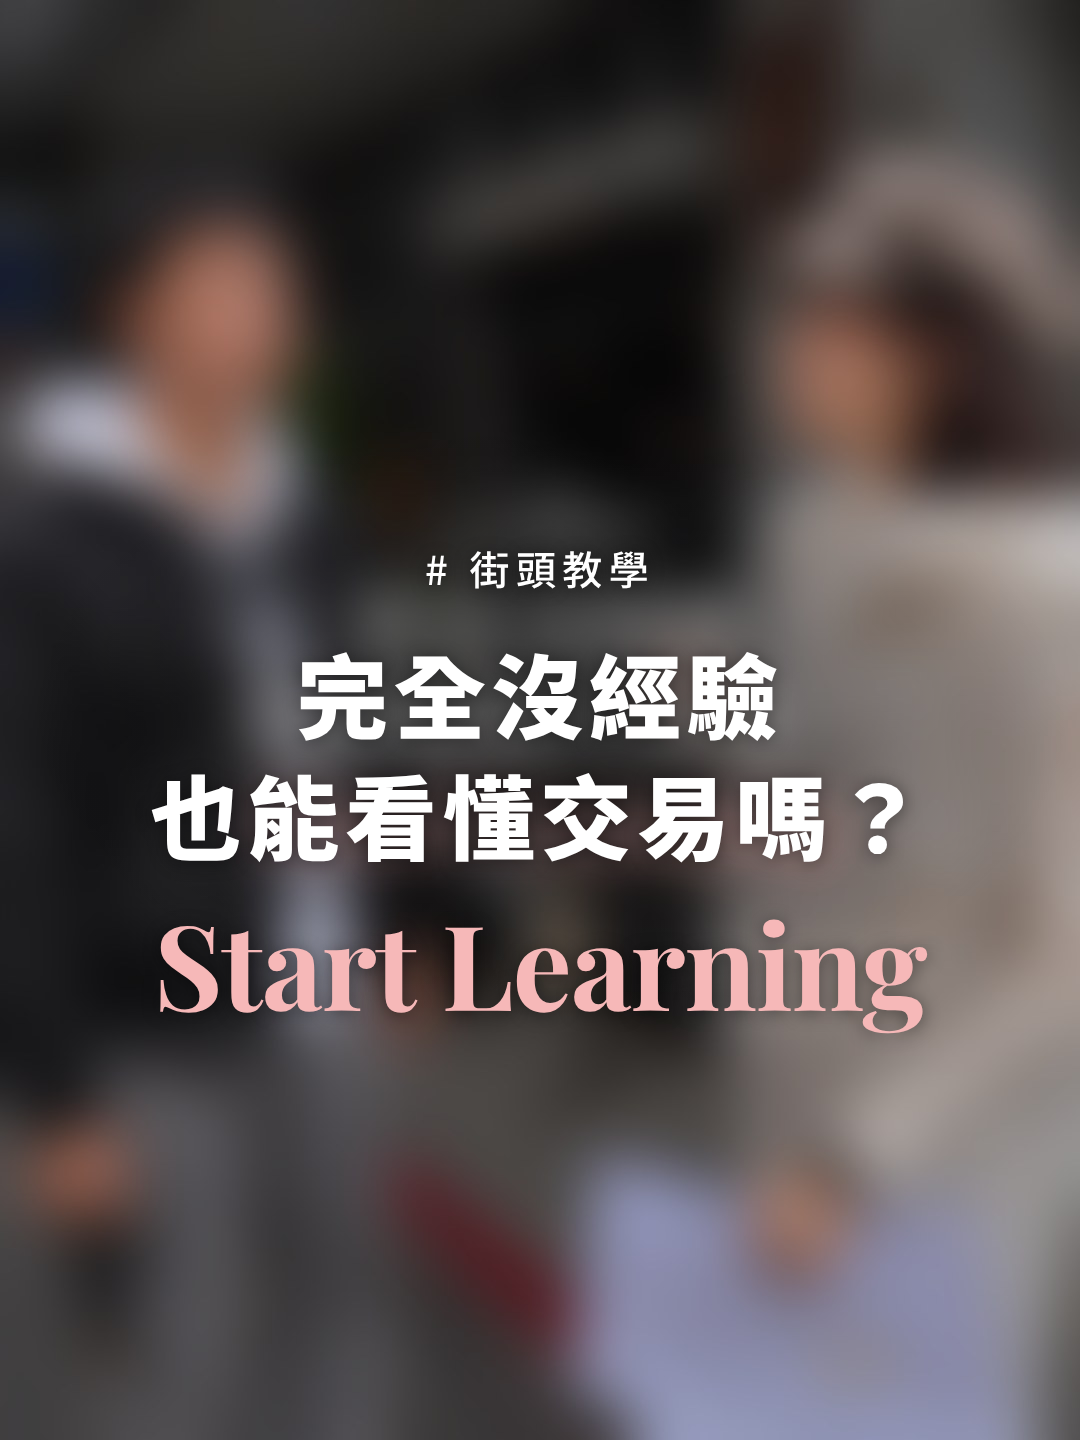
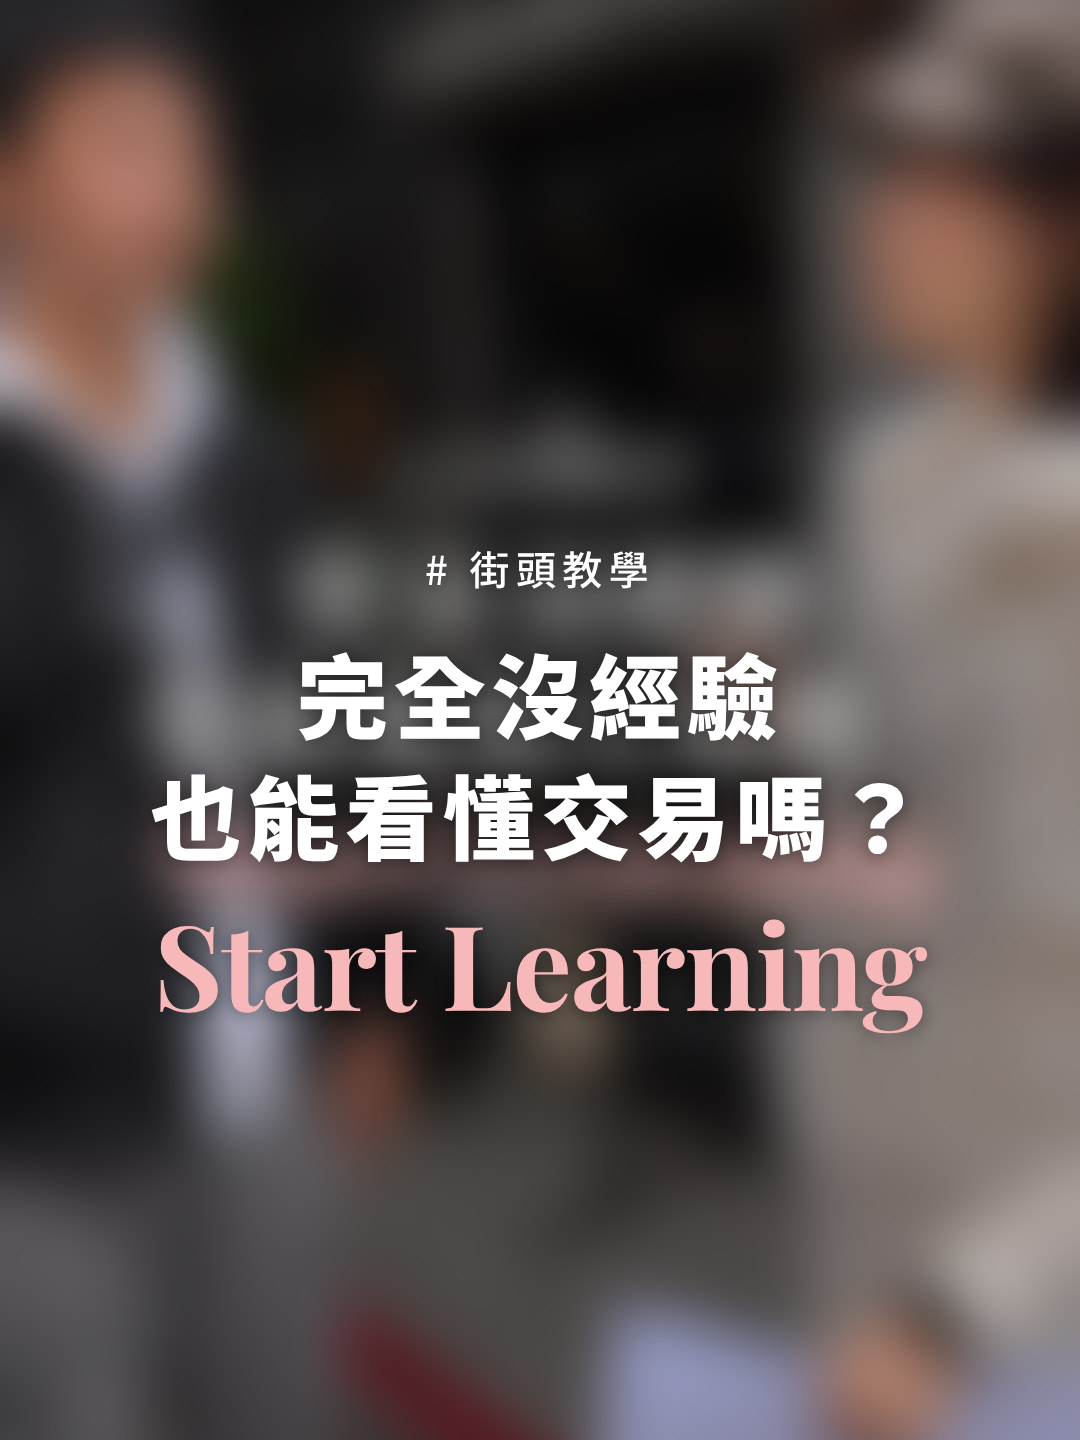
Reels cover: full-bleed 9:16 photo, text kept in 3:4 grid area
Claude-Session: https://claude.ai/code/session_01K22ibGV81CH6a2s93otbSP

diff --git a/IP經營/Reels封面_範例/cover.html b/IP經營/Reels封面_範例/cover.html
@@ -7,16 +7,18 @@
   :root { --pink: #f6b8b8; --white: #ffffff; }
   * { box-sizing: border-box; margin: 0; padding: 0; }
   body { background: #666; font-family: "Noto Sans TC", sans-serif; }
-  /* 整張 9:16；照片放中間 3:4（= IG 主頁格狀會顯示的範圍），上下黑邊 */
+  /* 整張 9:16，照片滿版；文字只放中間 3:4（= IG 主頁格狀會顯示的範圍） */
   .reel { width: 1080px; height: 1920px; background: #000; position: relative; overflow: hidden; margin: 0 0 20px; }
   .photo {
-    position: absolute; left: 0; top: 240px; width: 1080px; height: 1440px;
+    position: absolute; inset: 0;
     background: #444 var(--img, none) center / cover no-repeat;
   }
+  /* 想要上下黑邊（照片只露中間 3:4）就在 section 加 class="bars" */
+  .bars .photo { top: 240px; bottom: 240px; }
   /* 文字底下淡淡壓暗，任何照片都讀得清楚 */
   .photo::after {
     content: ""; position: absolute; inset: 0;
-    background: radial-gradient(ellipse 70% 30% at 50% 50%, rgba(0,0,0,.35), transparent 70%);
+    background: radial-gradient(ellipse 70% 17% at 50% 50%, rgba(0,0,0,.35), transparent 70%);
   }
   .text {
     position: absolute; left: 0; right: 0; top: 240px; height: 1440px;
@@ -32,7 +34,8 @@
   }
   /* 參考線：body 加 class="guide" 才顯示 */
   .guide .reel::before, .guide .reel::after { position: absolute; left: 0; right: 0; z-index: 2; color: #ff0; font: 28px sans-serif; padding: 10px 20px; }
-  .guide .photo { outline: 4px dashed #ff0; outline-offset: -4px; }
+  .guide .reel { outline: 4px dashed #ff0; outline-offset: -4px; }
+  .guide .text { box-shadow: 0 0 0 9999px rgba(0,0,0,.35); }
   .guide .reel::before { content: "↓ 3:4 主頁格狀顯示範圍（文字只放這裡）"; top: 190px; }
   .guide .reel::after { content: "↑ 9:16 完整封面"; bottom: 190px; }
   .guide .text { outline: 3px solid rgba(255,0,255,.8); outline-offset: -3px; }
@@ -42,7 +45,7 @@
 
 <!--
   一張 section = 一張封面
-  照片：同資料夾放 photo.jpg，或改 --img 的檔名（直式 3:4 最好，會自動裁切置中）
+  照片：同資料夾放 photo.jpg，或改 --img 的檔名（9:16 直式，滿版；人臉放上半部、兩人中間留空給字）
   tag：系列標，「# 系列名」
   title：中文主標，最多 2 行、每行 ≤ 7 字，用 br 換行
   en：英文副標，品牌固定句或系列英文名

diff --git a/IP經營/版型/Reels封面版型.html b/IP經營/版型/Reels封面版型.html
@@ -7,16 +7,18 @@
   :root { --pink: #f6b8b8; --white: #ffffff; }
   * { box-sizing: border-box; margin: 0; padding: 0; }
   body { background: #666; font-family: "Noto Sans TC", sans-serif; }
-  /* 整張 9:16；照片放中間 3:4（= IG 主頁格狀會顯示的範圍），上下黑邊 */
+  /* 整張 9:16，照片滿版；文字只放中間 3:4（= IG 主頁格狀會顯示的範圍） */
   .reel { width: 1080px; height: 1920px; background: #000; position: relative; overflow: hidden; margin: 0 0 20px; }
   .photo {
-    position: absolute; left: 0; top: 240px; width: 1080px; height: 1440px;
+    position: absolute; inset: 0;
     background: #444 var(--img, none) center / cover no-repeat;
   }
+  /* 想要上下黑邊（照片只露中間 3:4）就在 section 加 class="bars" */
+  .bars .photo { top: 240px; bottom: 240px; }
   /* 文字底下淡淡壓暗，任何照片都讀得清楚 */
   .photo::after {
     content: ""; position: absolute; inset: 0;
-    background: radial-gradient(ellipse 70% 30% at 50% 50%, rgba(0,0,0,.35), transparent 70%);
+    background: radial-gradient(ellipse 70% 17% at 50% 50%, rgba(0,0,0,.35), transparent 70%);
   }
   .text {
     position: absolute; left: 0; right: 0; top: 240px; height: 1440px;
@@ -32,7 +34,8 @@
   }
   /* 參考線：body 加 class="guide" 才顯示 */
   .guide .reel::before, .guide .reel::after { position: absolute; left: 0; right: 0; z-index: 2; color: #ff0; font: 28px sans-serif; padding: 10px 20px; }
-  .guide .photo { outline: 4px dashed #ff0; outline-offset: -4px; }
+  .guide .reel { outline: 4px dashed #ff0; outline-offset: -4px; }
+  .guide .text { box-shadow: 0 0 0 9999px rgba(0,0,0,.35); }
   .guide .reel::before { content: "↓ 3:4 主頁格狀顯示範圍（文字只放這裡）"; top: 190px; }
   .guide .reel::after { content: "↑ 9:16 完整封面"; bottom: 190px; }
   .guide .text { outline: 3px solid rgba(255,0,255,.8); outline-offset: -3px; }
@@ -42,7 +45,7 @@
 
 <!--
   一張 section = 一張封面
-  照片：同資料夾放 photo.jpg，或改 --img 的檔名（直式 3:4 最好，會自動裁切置中）
+  照片：同資料夾放 photo.jpg，或改 --img 的檔名（9:16 直式，滿版；人臉放上半部、兩人中間留空給字）
   tag：系列標，「# 系列名」
   title：中文主標，最多 2 行、每行 ≤ 7 字，用 br 換行
   en：英文副標，品牌固定句或系列英文名
